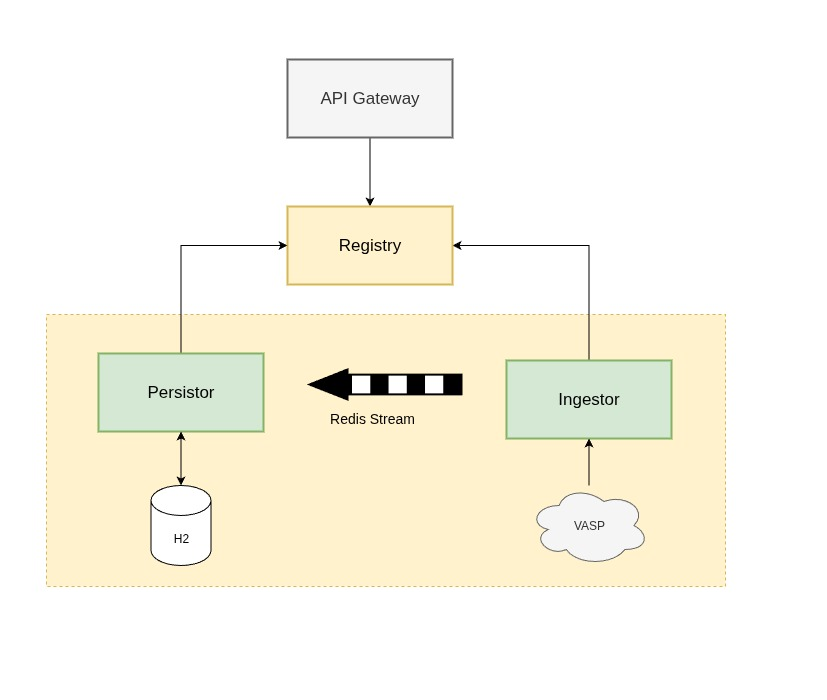
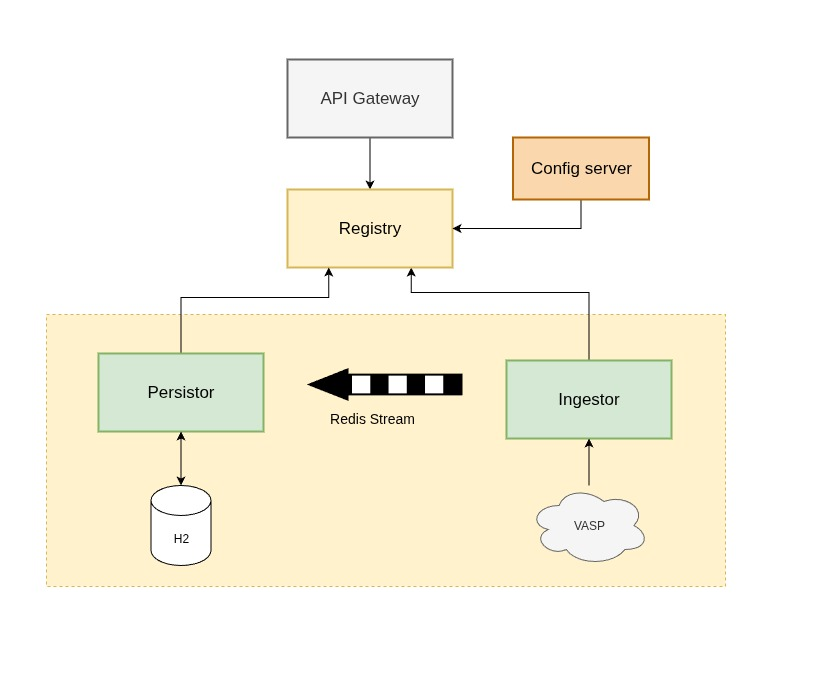
testing config server

Changed region(s): [[0.3325, 0.24, 0.5744, 0.42], [0.6046, 0.18, 0.786, 0.3]]

diff --git a/Implementation/Source/config-server/src/main/java/com/parotia/configserver/ConfigServerApplication.java b/Implementation/Source/config-server/src/main/java/com/parotia/configserver/ConfigServerApplication.java
@@ -1,0 +1,14 @@
+package com.parotia.configserver;
+
+import org.springframework.boot.SpringApplication;
+import org.springframework.boot.autoconfigure.SpringBootApplication;
+import org.springframework.cloud.config.server.EnableConfigServer;
+
+@EnableConfigServer
+@SpringBootApplication
+public class ConfigServerApplication {
+
+    public static void main(String[] args) {
+        SpringApplication.run(ConfigServerApplication.class, args);
+    }
+}
